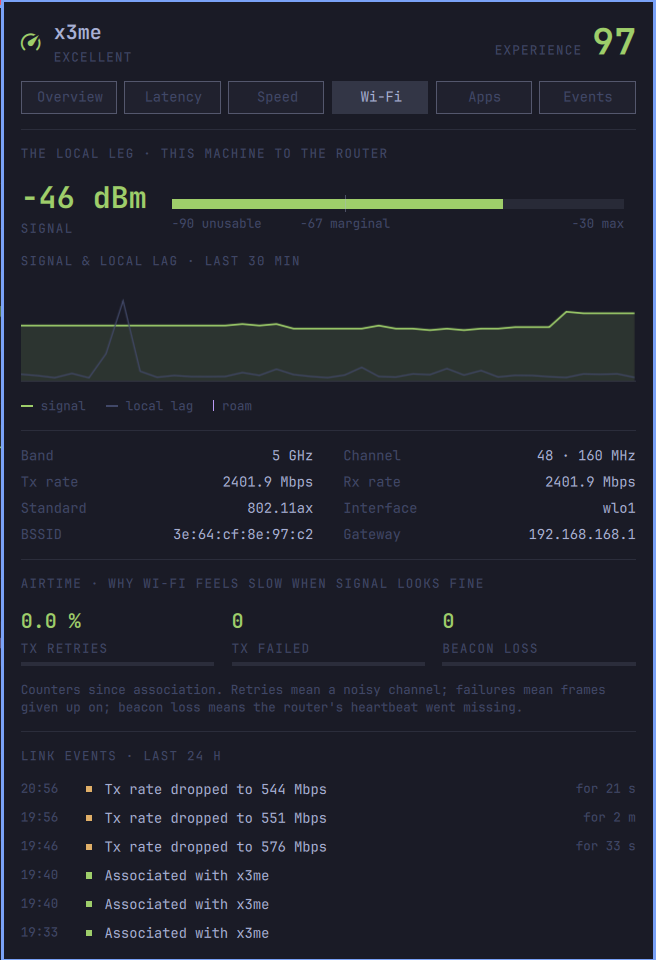
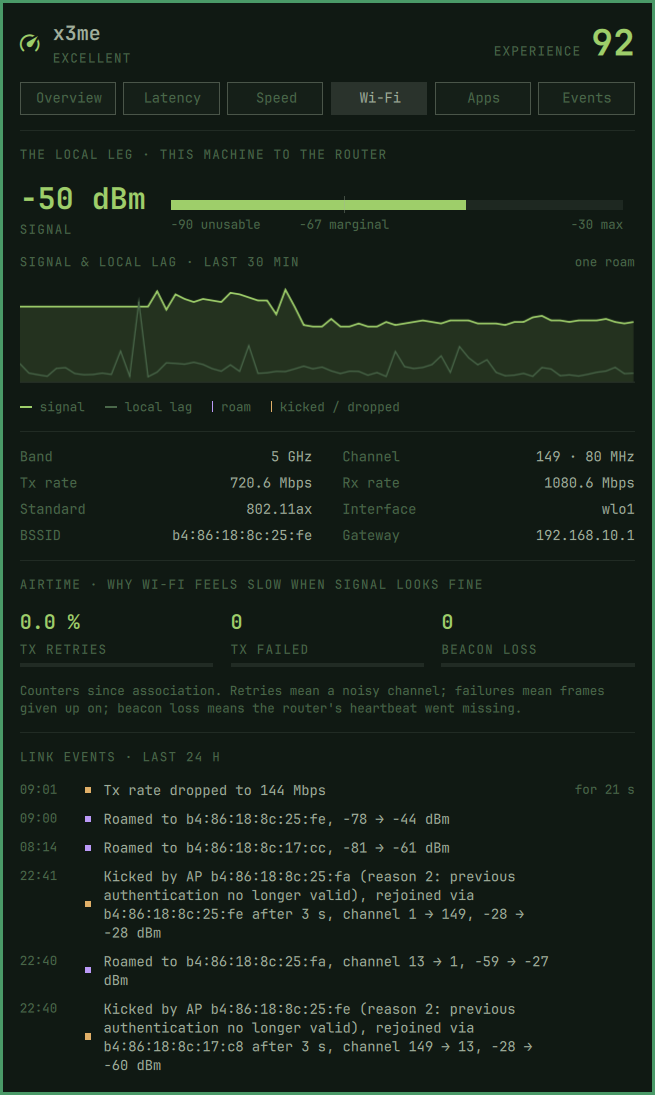
Retake every README screenshot on 0.2.1
All five were from 0.1.0; the panel has since grown the instrument
bench, the masked WAN address, kick/drop attribution and the outage
arbitration. Shot from the live shell at exact panel bounds (the crop
follows the card's own border), plus a new Events capture - the kick
storm that started this run of releases, folded into episodes, is the
best demonstration the log has.

Claude-Session: https://claude.ai/code/session_011swt1t87roFtCwZFG4qTBX

diff --git a/README.md b/README.md
@@ -67,6 +67,10 @@ tests.
 |---|---|
 | ![Wi-Fi tab](docs/wifi.png) | ![Apps tab](docs/apps.png) |
 
+The event log, naming who did what — including the router that kicks:
+
+![Events tab](docs/events.png)
+
 ## Using it
 
 - **Bar widget**: the index (or lag, or a sparkline — pick in Setup >
